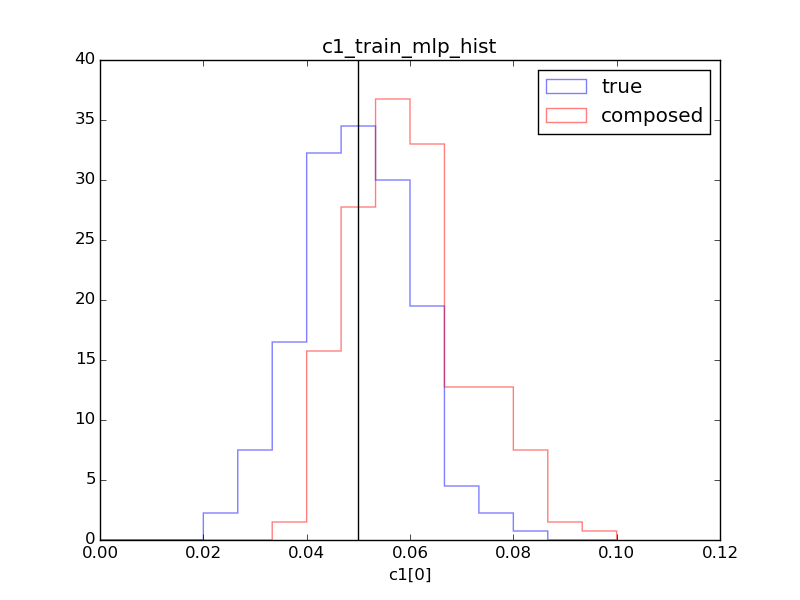
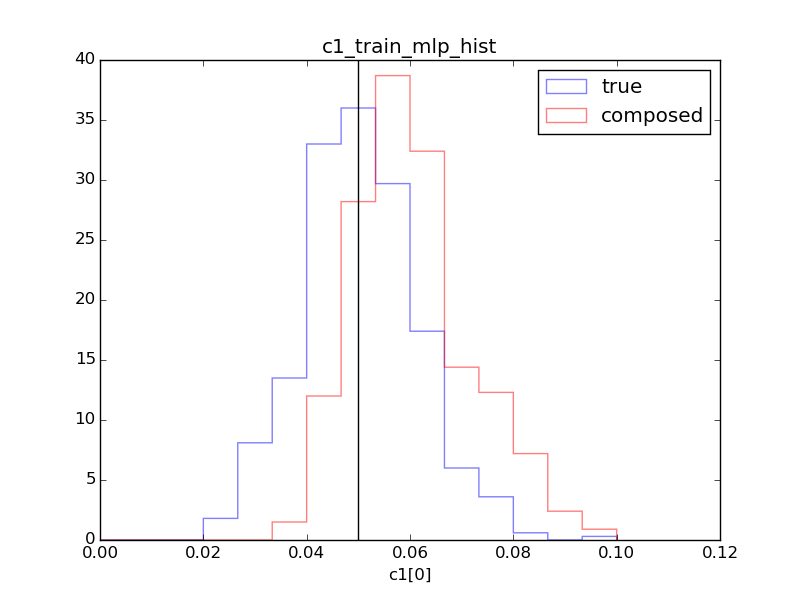
Plots for c1-c2 fitting for different training dataset size

diff --git a/README.md b/README.md
@@ -199,8 +199,8 @@ It can be seen that both methods obtain unbiased estimators of the true values.
 
 #N-dimensions Private Model
 
-We will check the composition method in a N-dim mixture model. But this time each pdf is also a sum of gaussians, with 
-unknown coefficients. We want to see how the method works in this harder case.
+We will check the composition method in a N-dim mixture model. But this time each pdf is also a sum of gaussians with fixed coefficients. 
+We want to see how the method works in this harder case.
 
 ![decomposed model](https://github.com/jgpavez/systematics/blob/multidim/plots/mlp/private/0.10/decomposed_model.png)
 
@@ -314,4 +314,21 @@ The signal efficiency - background rejection curves are shown next for each one 
  10000                   | 100000
 <img src="https://github.com/jgpavez/systematics/blob/multidim/plots/mlp/training/10000/full_comparison_mlp_sigbkg.png" width="350">  | <img src="https://github.com/jgpavez/systematics/blob/multidim/plots/mlp/training/100000/full_comparison_mlp_sigbkg.png" width="350" >
 
-It can be seen that even with a relatively small amount of samples the ratios (specially the ones obtained with the composing formula) can be correctly calibrated.
+Finally, the histograms for the values of the coefficients c1[0] and c2[0] obtained by maximizing the log-likelihood on a dataset in each case of the cases are shown. 
+
+
+c1[0] - 0                   | c1[0] - 1000
+:-------------------------:|:-------------------------:
+<img src="https://github.com/jgpavez/systematics/blob/multidim/plots/mlp/training/0/c1c2_train_mlp_c1_hist.png" width="350">  | <img src="https://github.com/jgpavez/systematics/blob/multidim/plots/mlp/training/1000/c1c2_train_mlp_c1_hist.png" width="350" >
+c1[0] - 10000                | c1[0] - 100000
+<img src="https://github.com/jgpavez/systematics/blob/multidim/plots/mlp/training/10000/c1c2_train_mlp_c1_hist.png" width="350">  | <img src="https://github.com/jgpavez/systematics/blob/multidim/plots/mlp/training/100000/c1c2_train_mlp_c1_hist.png" width="350" >
+
+c1[1] - 0                   | c1[1] - 1000
+:-------------------------:|:-------------------------:
+<img src="https://github.com/jgpavez/systematics/blob/multidim/plots/mlp/training/0/c1c2_train_mlp_c2_hist.png" width="350">  | <img src="https://github.com/jgpavez/systematics/blob/multidim/plots/mlp/training/1000/c1c2_train_mlp_c2_hist.png" width="350" >
+c1[1] - 10000                | c1[1] - 100000
+<img src="https://github.com/jgpavez/systematics/blob/multidim/plots/mlp/training/10000/c1c2_train_mlp_c2_hist.png" width="350">  | <img src="https://github.com/jgpavez/systematics/blob/multidim/plots/mlp/training/100000/c1c2_train_mlp_c2_hist.png" width="350" >
+
+With a relatively small amount of samples, the trained likelihood is able to approximate closely the true value of the coefficients **c1[0]** and **c1[1]** with only a small bias. 
+With more data the approximation is very good.
+
